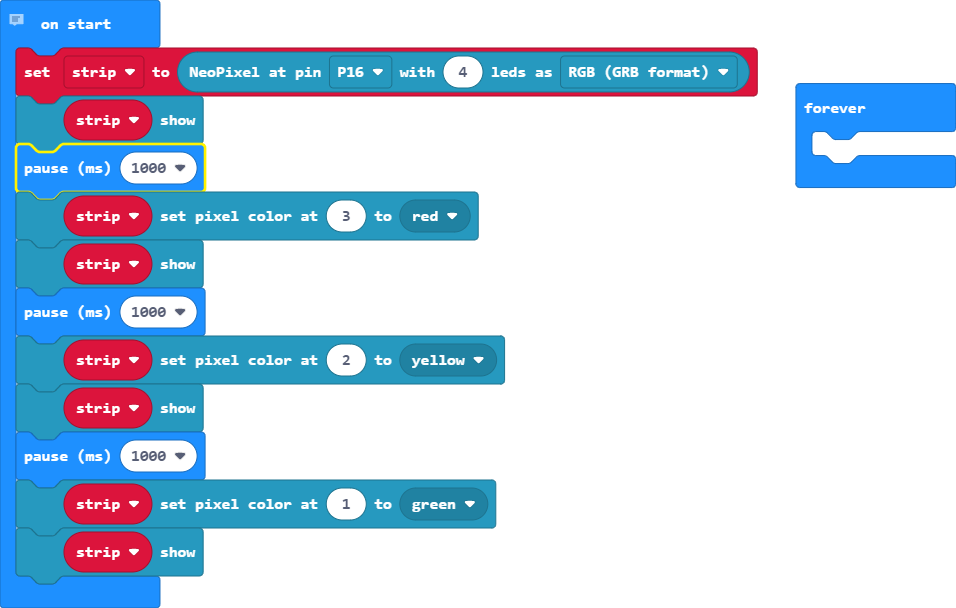
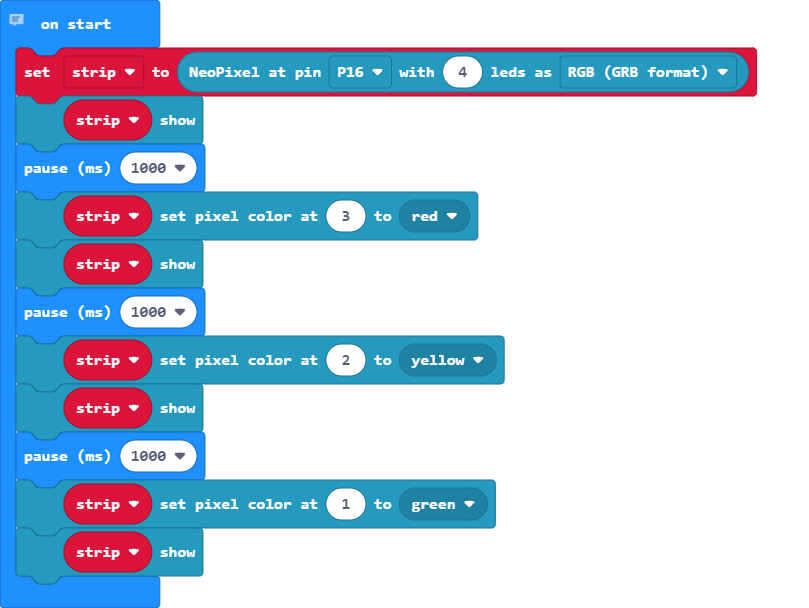
deleted forever

Changed region(s): [[0.0, 0.0, 1.0, 1.0]]

diff --git a/main.ts b/main.ts
@@ -12,6 +12,3 @@ strip.show()
 basic.pause(1000)
 strip.setPixelColor(1, neopixel.colors(NeoPixelColors.Green))
 strip.show()
-basic.forever(function () {
-	
-})
